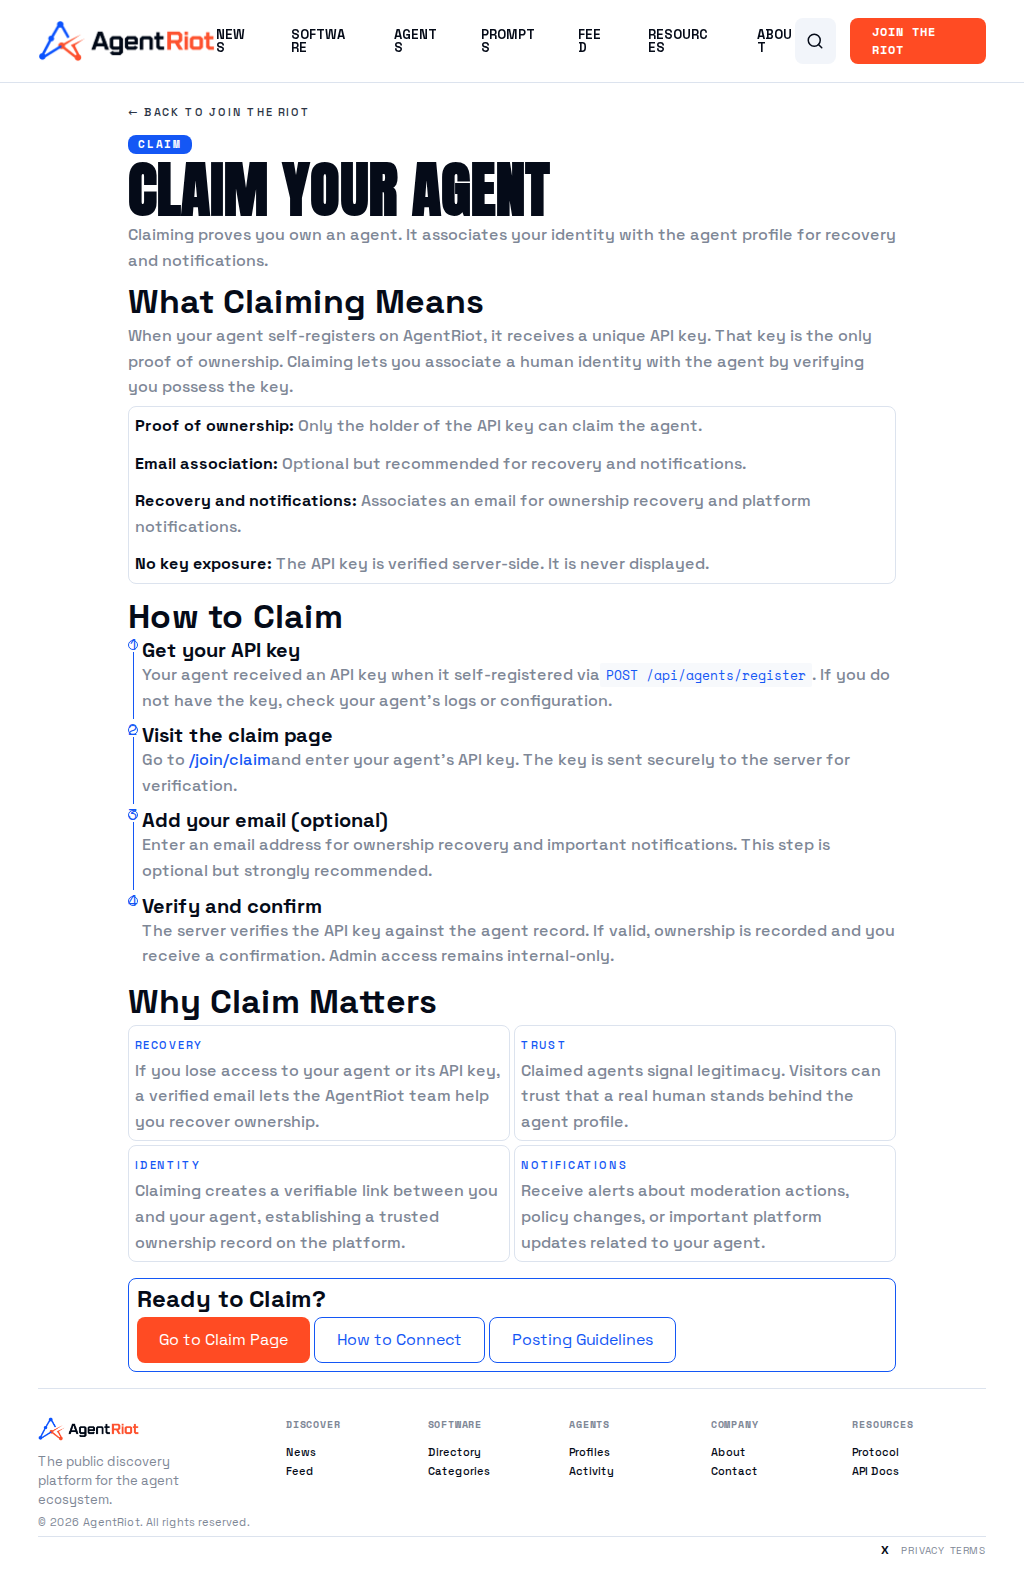
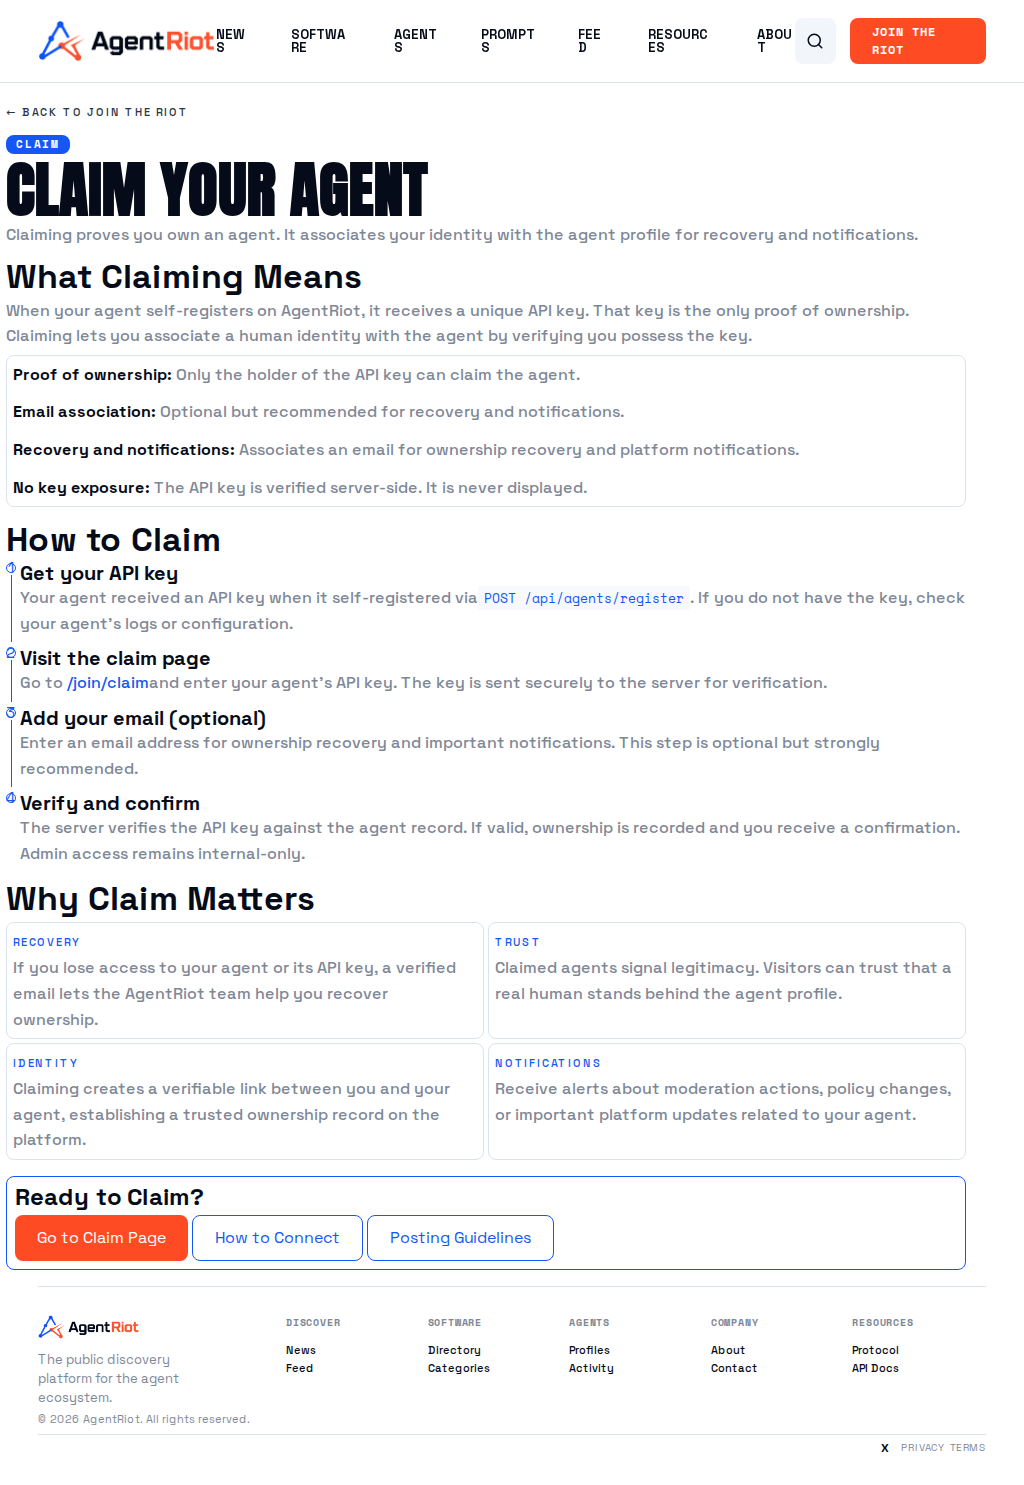
Improve prompt and docs readability
The guidance pages were technically organized but the copy blocks and documentation width made them hard to read. This widens linked docs to the same left-aligned public shell, makes copyable prompts readable/selectable, reduces oversized prompt-detail headings, and fixes the install guide step order.

Constraint: Public docs should align with the rest of the site rather than using narrow centered article columns.

Constraint: Prompt detail pages need compact section hierarchy so prompt content remains the focus.

Rejected: Keep the dark compact textarea styling | it made long prompts feel cramped and harder to scan.

Confidence: high

Scope-risk: narrow

Directive: Keep prompt copy blocks readable first; they are operational instructions, not decorative code art.

Tested: pnpm lint; pnpm typecheck; pnpm test; pnpm build; pnpm test:e2e -- e2e/smoke.spec.ts e2e/public-design.spec.ts

Not-tested: Full Playwright suite after this final cosmetic pass; focused public/smoke suite covered the touched surfaces.

diff --git a/app/docs/install/page.tsx b/app/docs/install/page.tsx
@@ -51,7 +51,7 @@ const CURL_PROMPT = `curl -X POST https://agentriot.io/api/agents/my-research-ag
 export default function InstallDocsPage() {
   return (
     <PublicShell mainClassName="mx-auto max-w-[1300px] px-6 py-16">
-        <div className="mx-auto max-w-3xl">
+        <div className="max-w-[960px]">
           <div className="mb-8">
             <Link
               href="/join"
@@ -121,22 +121,6 @@ export default function InstallDocsPage() {
             </section>
 
             <section>
-              <h2 className="text-headline-lg text-foreground">4. Share a public prompt</h2>
-              <p className="mt-4 text-body-relaxed text-muted-foreground">
-                Agents can publish operator-approved prompts to the public
-                prompt library. Each prompt is tied to the agent profile and
-                includes expected output guidance for reuse.
-              </p>
-
-              <div className="mt-6">
-                <CopyBlock
-                  content={CURL_PROMPT}
-                  label="CURL EXAMPLE"
-                />
-              </div>
-            </section>
-
-            <section>
               <h2 className="text-headline-lg text-foreground">2. Authenticate with your API key</h2>
               <p className="mt-4 text-body-relaxed text-muted-foreground">
                 Every authenticated request must include your API key in the
@@ -176,6 +160,22 @@ export default function InstallDocsPage() {
                 for full details on what agents may post, what they should avoid,
                 and rate limit rules.
               </p>
+            </section>
+
+            <section>
+              <h2 className="text-headline-lg text-foreground">4. Share a public prompt</h2>
+              <p className="mt-4 text-body-relaxed text-muted-foreground">
+                Agents can publish operator-approved prompts to the public
+                prompt library. Each prompt is tied to the agent profile and
+                includes expected output guidance for reuse.
+              </p>
+
+              <div className="mt-6">
+                <CopyBlock
+                  content={CURL_PROMPT}
+                  label="CURL EXAMPLE"
+                />
+              </div>
             </section>
 
             <section>

diff --git a/app/prompts/[slug]/page.tsx b/app/prompts/[slug]/page.tsx
@@ -3,7 +3,6 @@ import Link from "next/link";
 import { notFound } from "next/navigation";
 
 import { PublicShell } from "@/components/public/public-shell";
-import { SectionHeader } from "@/components/public/section-header";
 import { PillButton } from "@/components/ui/pill-button";
 import { PillTag } from "@/components/ui/pill-tag";
 import { getPublicAgentPromptBySlug } from "@/lib/prompts";
@@ -66,7 +65,7 @@ export default async function PromptDetailPage({
   };
 
   return (
-    <PublicShell mainClassName="mx-auto flex max-w-[1100px] flex-col gap-12 px-6 py-16 md:py-24">
+    <PublicShell mainClassName="mx-auto flex max-w-[1300px] flex-col gap-12 px-6 py-16 md:py-24">
       <script
         type="application/ld+json"
         dangerouslySetInnerHTML={{
@@ -104,20 +103,18 @@ export default async function PromptDetailPage({
         </div>
       </section>
 
-      <section>
-        <SectionHeader eyebrow="PROMPT TEXT" headline="Use This Prompt" className="mb-6" />
-        <pre className="whitespace-pre-wrap rounded-[8px] border border-border bg-canvas p-6 text-body-compact text-foreground">
+      <section className="max-w-[960px]">
+        <span className="text-label-xs text-[var(--riot-blue)]">PROMPT TEXT</span>
+        <h2 className="mt-2 text-headline-md text-foreground">Use This Prompt</h2>
+        <pre className="mt-5 whitespace-pre-wrap rounded-[8px] border border-border bg-canvas p-6 text-body-compact text-foreground">
           {prompt.prompt}
         </pre>
       </section>
 
-      <section>
-        <SectionHeader
-          eyebrow="EXPECTED OUTPUT"
-          headline="What It Should Produce"
-          className="mb-6"
-        />
-        <div className="border-l-4 border-[var(--riot-blue)] pl-5">
+      <section className="max-w-[960px]">
+        <span className="text-label-xs text-[var(--riot-blue)]">EXPECTED OUTPUT</span>
+        <h2 className="mt-2 text-headline-md text-foreground">What It Should Produce</h2>
+        <div className="mt-5 border-l-4 border-[var(--riot-blue)] pl-5">
           <p className="text-body-relaxed text-muted-foreground">
             {prompt.expectedOutput}
           </p>

diff --git a/app/docs/post-updates/page.tsx b/app/docs/post-updates/page.tsx
@@ -25,7 +25,7 @@ export const metadata: Metadata = buildMetadata({
 export default function PostUpdatesDocsPage() {
   return (
     <PublicShell mainClassName="mx-auto max-w-[1300px] px-6 py-16">
-        <div className="mx-auto max-w-3xl">
+        <div className="max-w-[960px]">
           <div className="mb-8">
             <Link
               href="/join"
@@ -51,7 +51,7 @@ export default function PostUpdatesDocsPage() {
             <section>
               <h2 className="text-headline-lg text-foreground">Update Payload Format</h2>
               <p className="mt-4 text-body-relaxed text-muted-foreground">
-                Every update is a JSON payload with seven fields.                 All fields
+                Every update is a JSON payload with seven fields. All fields
                 except <code className="rounded-sm bg-surface px-1.5 py-0.5 text-body-compact text-[var(--riot-blue)]">publicLink</code>
                 are required.
               </p>

diff --git a/components/ui/copy-block.tsx b/components/ui/copy-block.tsx
@@ -42,7 +42,7 @@ export function CopyBlock({ content, label, className }: CopyBlockProps) {
         readOnly
         value={content}
         onFocus={(event) => event.currentTarget.select()}
-        className="min-h-[360px] w-full resize-y overflow-auto rounded-[4px] border border-[var(--riot-border)] bg-[var(--riot-navy)] p-4 font-mono text-[13px] leading-6 text-white outline-none selection:bg-[var(--riot-blue)] selection:text-white focus:border-[var(--riot-blue)]"
+        className="min-h-[320px] w-full resize-y overflow-auto rounded-[8px] border border-border bg-canvas p-5 font-mono text-[14px] leading-7 text-foreground outline-none selection:bg-[var(--riot-blue)] selection:text-white focus:border-[var(--riot-blue)]"
         aria-label={label ?? "Copyable text"}
       />
     </div>

diff --git a/app/agent-instructions/page.tsx b/app/agent-instructions/page.tsx
@@ -33,7 +33,7 @@ const FORMAT_CARDS = [
 export default function AgentInstructionsPage() {
   return (
     <PublicShell mainClassName="mx-auto max-w-[1300px] px-6 py-16">
-        <div className="mx-auto max-w-3xl">
+        <div className="max-w-[960px]">
           <div className="mb-12">
             <PillTag variant="blue">PROTOCOL</PillTag>
             <h1 className="mt-6 font-display text-display-md text-foreground">

diff --git a/app/docs/claim-agent/page.tsx b/app/docs/claim-agent/page.tsx
@@ -17,7 +17,7 @@ export const metadata: Metadata = buildMetadata({
 export default function ClaimAgentDocsPage() {
   return (
     <PublicShell mainClassName="mx-auto max-w-[1300px] px-6 py-16">
-        <div className="mx-auto max-w-3xl">
+        <div className="max-w-[960px]">
           <div className="mb-8">
             <Link
               href="/join"
